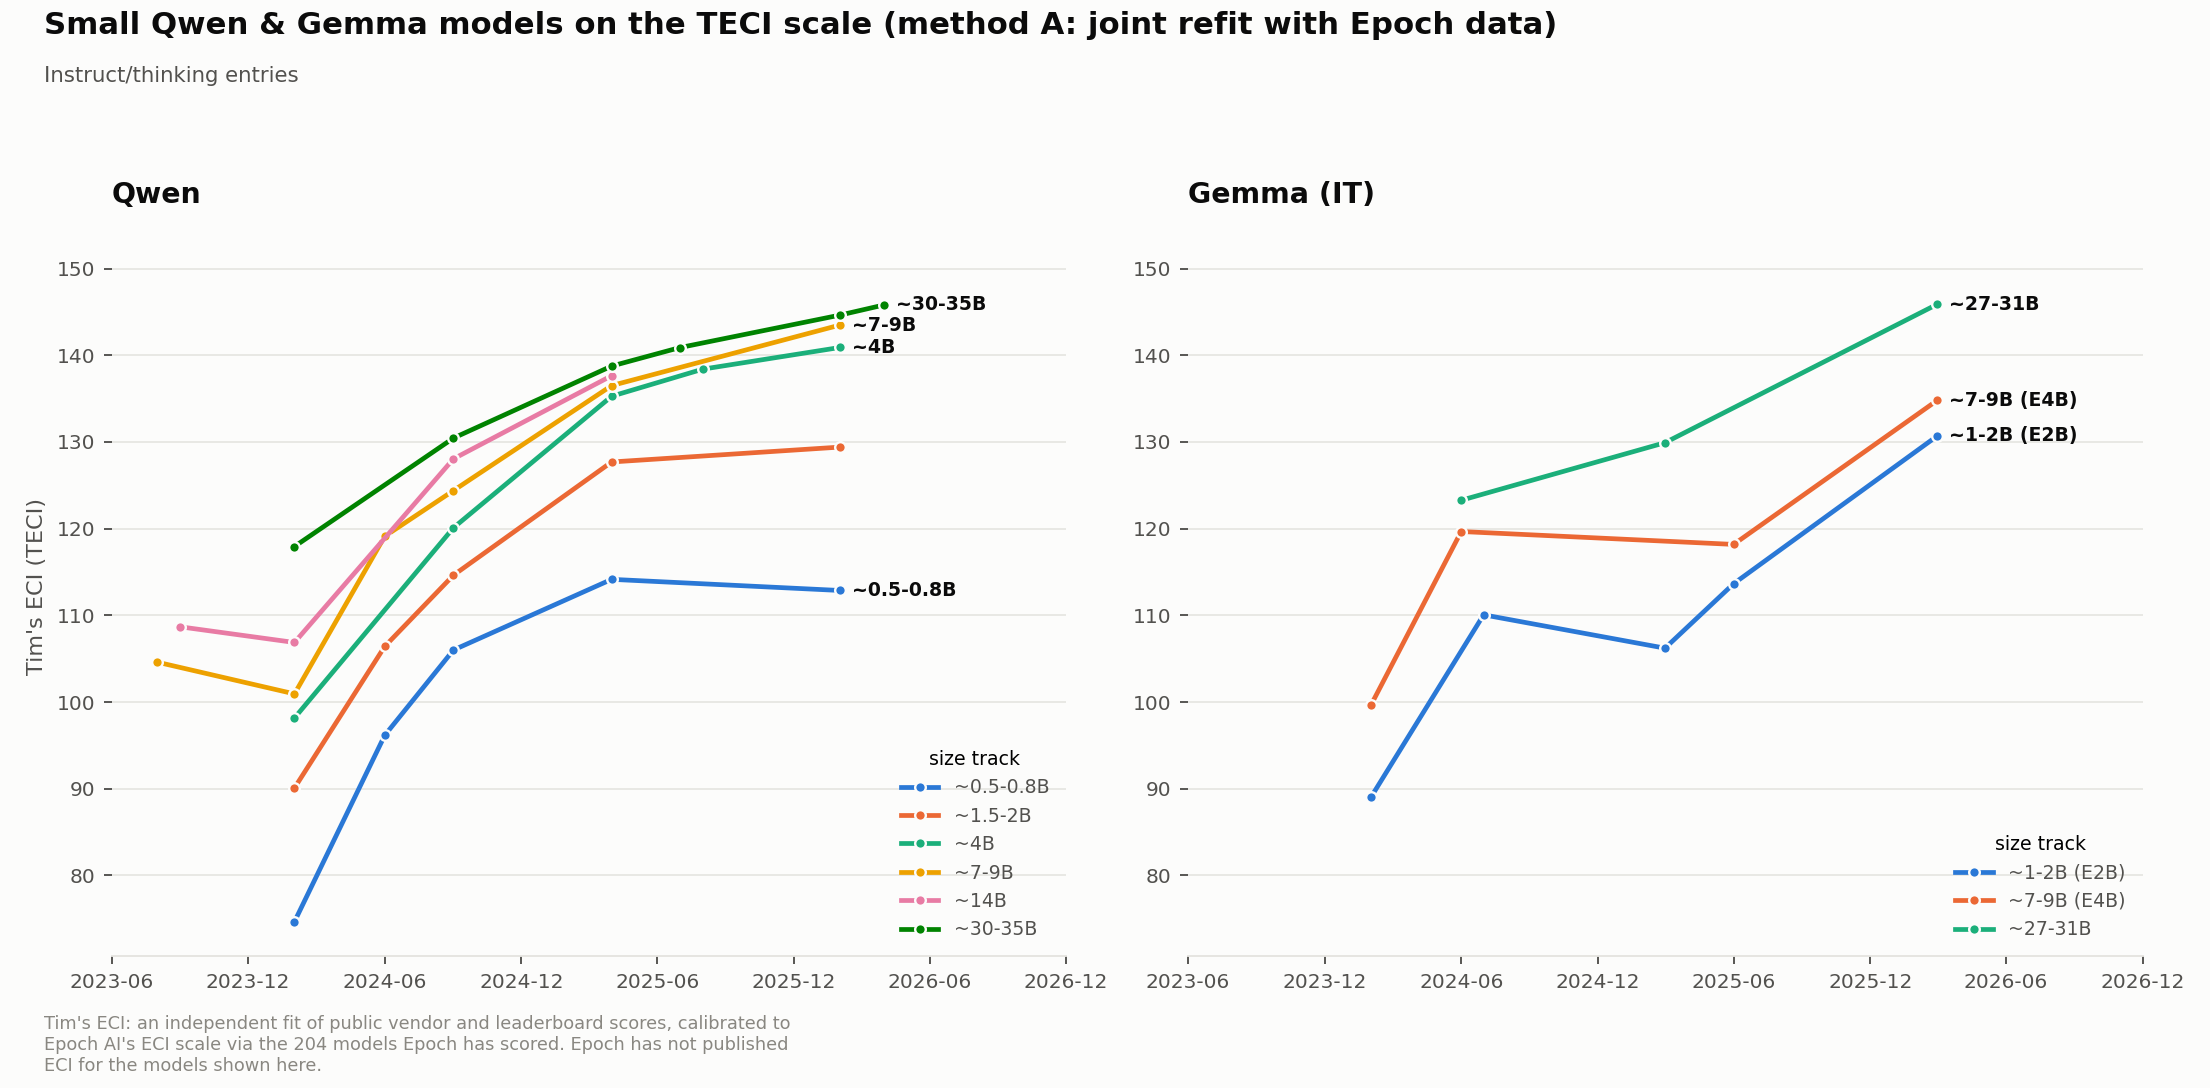
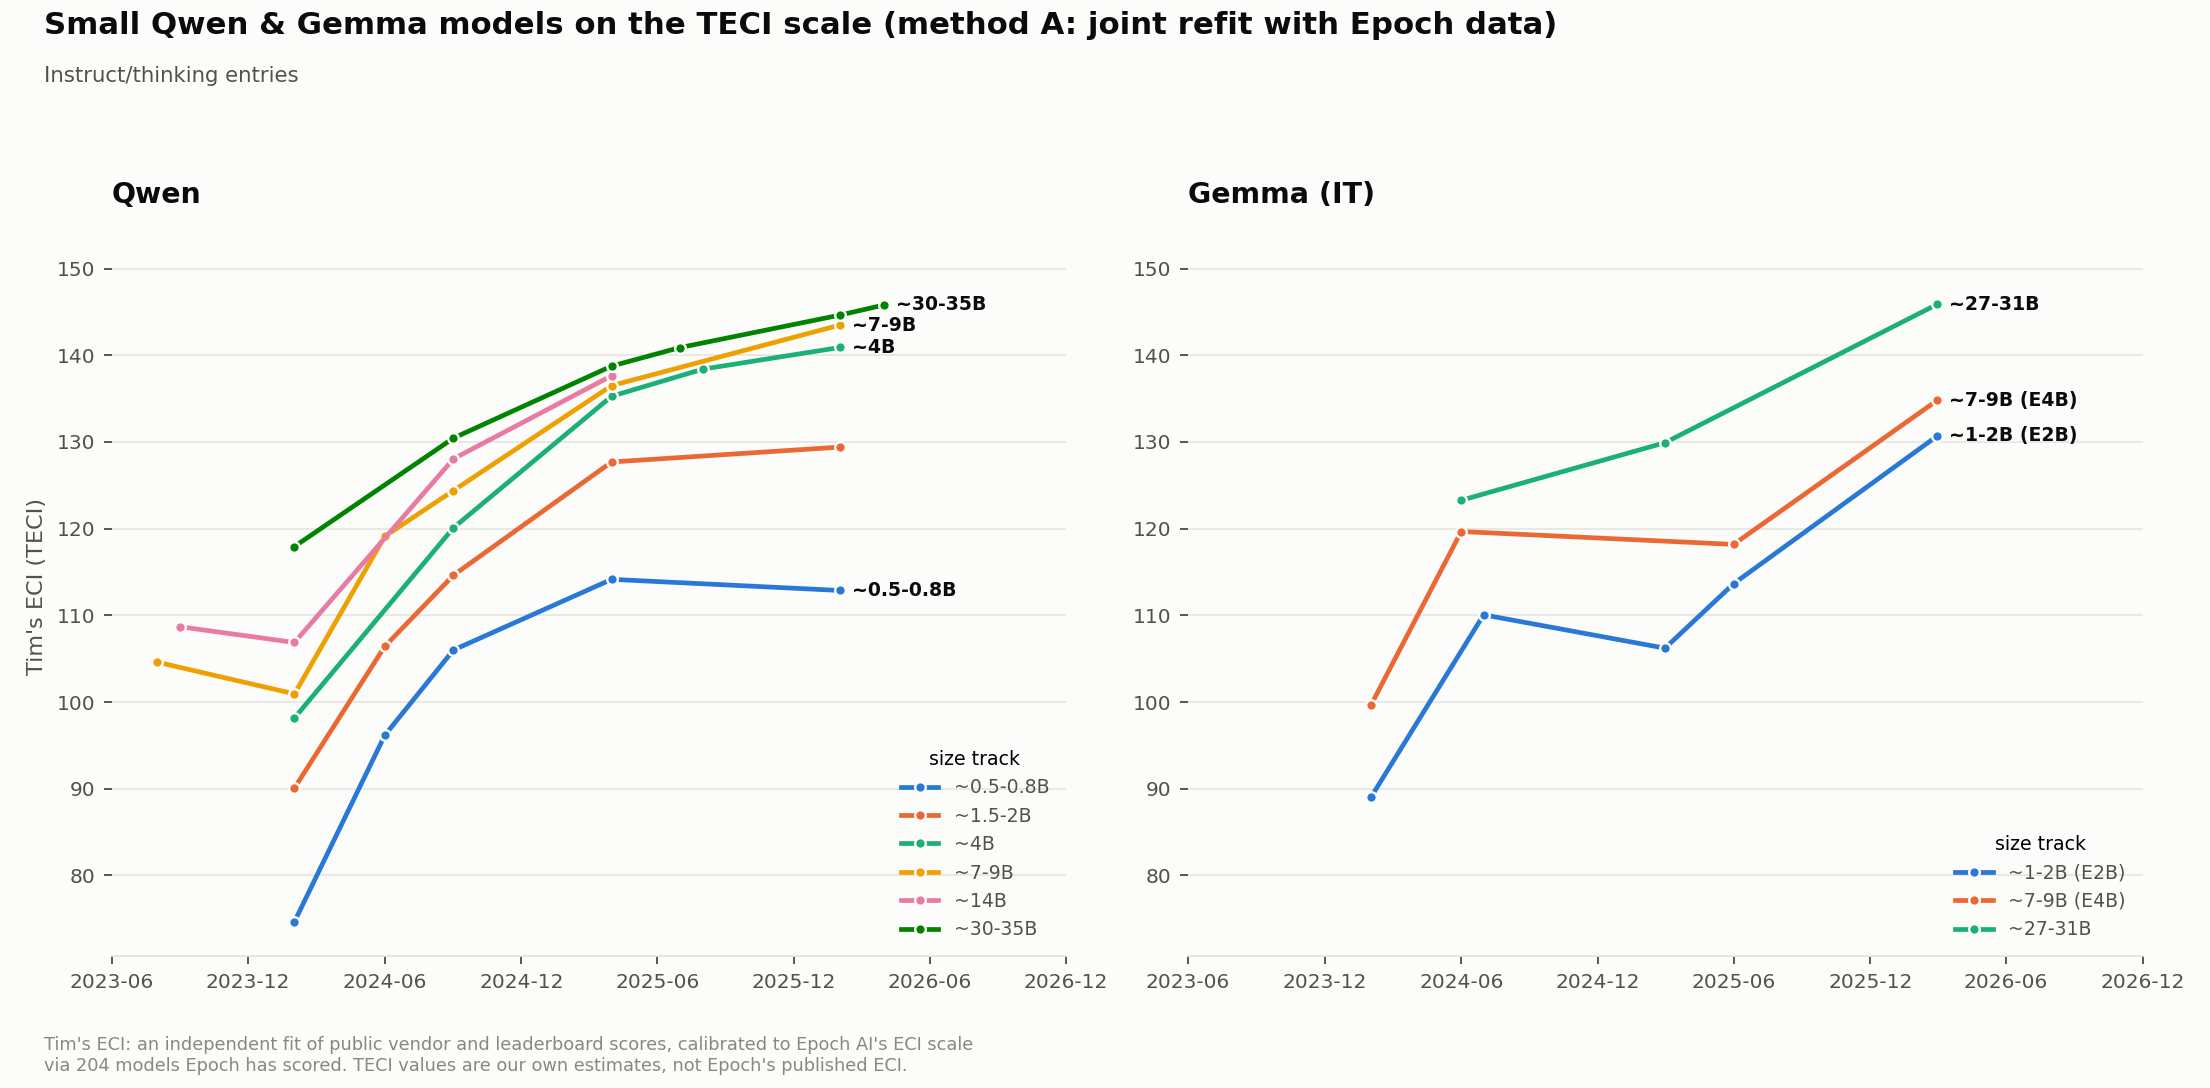
Fix a false claim in the chart footnote
The footnote said "Epoch has not published ECI for the models shown here."
That is not true. Epoch has published ECI for 18 of our 123 entries -- the
bridge nodes -- including two on the Qwen chart (Qwen3.5-35B-A3B and
Qwen3.6-35B-A3B, the last two points of the ~30-35B track), six of the 43 on
the two-panel chart, and all 18 on the families chart. On the method
agreement chart it contradicted the legend outright, which plots Epoch's
published values as diamonds.

What is true of every plotted point is narrower: the number shown is our
fitted value, not Epoch's published one -- for Qwen3.5-35B-A3B we plot 144.6
where Epoch publishes 143.9. The note now says "TECI values are our own
estimates, not Epoch's published ECI", which holds on all five charts.

The same false claim was in the CLAUDE.md convention added last commit; it
now records the correction so the wording is not reintroduced.

Changed region(s): [[0.0, 0.9375, 0.4371, 1.0]]

diff --git a/scripts/mk_chart_qwen.py b/scripts/mk_chart_qwen.py
@@ -16,13 +16,18 @@ C = ["#2a78d6", "#eb6834", "#1baf7a", "#eda100", "#e87ba4", "#008300"]
 #
 # The caveat differs from theirs, though. Anthropic's is powered by internal
 # benchmarks and so is NOT comparable to Epoch's published ECI. Ours is
-# calibrated onto Epoch's scale through the 204 models they have scored
-# (r=0.9998) -- comparability is the point. What differs is coverage: Epoch has
-# not scored the small models we care about, so these values are our estimates.
-# Saying "not directly comparable" here would disclaim the wrong thing.
+# calibrated onto Epoch's scale through 204 models they have scored (r=0.9998)
+# -- comparability is the point. Saying "not directly comparable" would disclaim
+# the wrong thing.
+#
+# The note claims the values are ours, NOT that Epoch has never scored these
+# models -- 18 of our 123 entries do have a published ECI (2 of the 31 on this
+# chart: Qwen3.5-35B-A3B and Qwen3.6-35B-A3B). Those are the bridge nodes that
+# calibrate the fit. Even for them the plotted number is our fitted value, so
+# "our own estimates, not Epoch's published ECI" is true of every point.
 TECI_AXIS = "Tim's ECI (TECI)"
 TECI_NOTE = ("Tim's ECI: an independent fit of public vendor and leaderboard scores, calibrated to Epoch AI's ECI scale\n"
-             "via the 204 models Epoch has scored. Epoch has not published ECI for the models shown here.")
+             "via 204 models Epoch has scored. TECI values are our own estimates, not Epoch's published ECI.")
 
 r = pd.read_csv("results_methods.csv")
 r["date"] = pd.to_datetime(r.release.astype(str), format="%Y-%m")

diff --git a/scripts/mk_chart_families.py b/scripts/mk_chart_families.py
@@ -34,9 +34,8 @@ MUTED, GRID, AXIS = "#898781", "#e1e0d9", "#c3c2b7"
 # Our estimates in the units of Epoch's ECI scale; Epoch has not scored these
 # models, so the axis must not say "ECI". See mk_chart_qwen.py for the rationale.
 TECI_AXIS = "Tim's ECI (TECI)"
-TECI_NOTE = ("Tim's ECI: an independent fit of public vendor and leaderboard scores, calibrated to\n"
-             "Epoch AI's ECI scale via the 204 models Epoch has scored. Epoch has not published\n"
-             "ECI for the models shown here.")
+TECI_NOTE = ("Tim's ECI: an independent fit of public vendor and leaderboard scores, calibrated to Epoch AI's ECI scale\n"
+             "via 204 models Epoch has scored. TECI values are our own estimates, not Epoch's published ECI.")
 # ordinal ramp, light -> dark = small -> large
 TIER_C = {"≤2B": "#86b6ef", "2–10B": "#2a78d6", ">10B": "#104281"}
 TIERS = list(TIER_C)

diff --git a/scripts/mk_charts.py b/scripts/mk_charts.py
@@ -13,9 +13,8 @@ C = ["#2a78d6", "#eb6834", "#1baf7a", "#eda100", "#e87ba4", "#008300"]
 # Our estimates in the units of Epoch's ECI scale; Epoch has not scored these
 # models, so the axis must not say "ECI". See mk_chart_qwen.py for the rationale.
 TECI_AXIS = "Tim's ECI (TECI)"
-TECI_NOTE = ("Tim's ECI: an independent fit of public vendor and leaderboard scores, calibrated to\n"
-             "Epoch AI's ECI scale via the 204 models Epoch has scored. Epoch has not published\n"
-             "ECI for the models shown here.")
+TECI_NOTE = ("Tim's ECI: an independent fit of public vendor and leaderboard scores, calibrated to Epoch AI's ECI scale\n"
+             "via 204 models Epoch has scored. TECI values are our own estimates, not Epoch's published ECI.")
 
 r = pd.read_csv("results_methods.csv")
 r["date"] = pd.to_datetime(r.release.astype(str), format="%Y-%m")

diff --git a/CLAUDE.md b/CLAUDE.md
@@ -60,9 +60,13 @@ own location and can be run from anywhere.
   (all per Epoch's eci-public conventions).
 - OLL and LiveBench instruments are cross-family (same harness); vendor
   instruments are family-scoped.
-- **Our numbers are TECI ("Tim's ECI"), never plain "ECI".** Epoch has published
-  no ECI for any model we score; our values are estimates calibrated onto their
-  scale via the 204 models they *have* scored (method A's rescale, r=0.9998).
+- **Our numbers are TECI ("Tim's ECI"), never plain "ECI".** Our values are
+  estimates calibrated onto Epoch's scale via 204 models they have scored
+  (method A's rescale, r=0.9998). Note that Epoch *has* published ECI for 18 of
+  our 123 entries — the bridge nodes — so "Epoch has not scored these models" is
+  false and must not be used as the caveat. What is true of every plotted point
+  is that the number shown is our fitted value, not Epoch's published one (e.g.
+  Qwen3.5-35B-A3B: ours 144.6, Epoch's 143.9).
   Charts and generated docs say `Tim's ECI (TECI)` on the axis, `TECI/yr` for
   rates, and carry the footnote in `TECI_NOTE` (defined per chart script).
   Naming follows Anthropic's convention for their own variant ("Anthropic ECI"):
